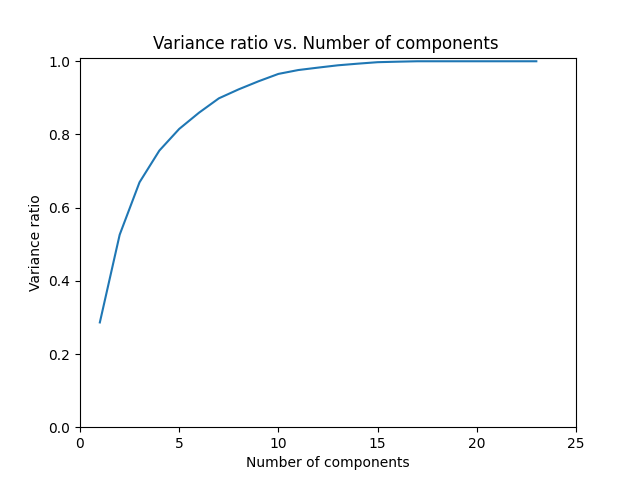
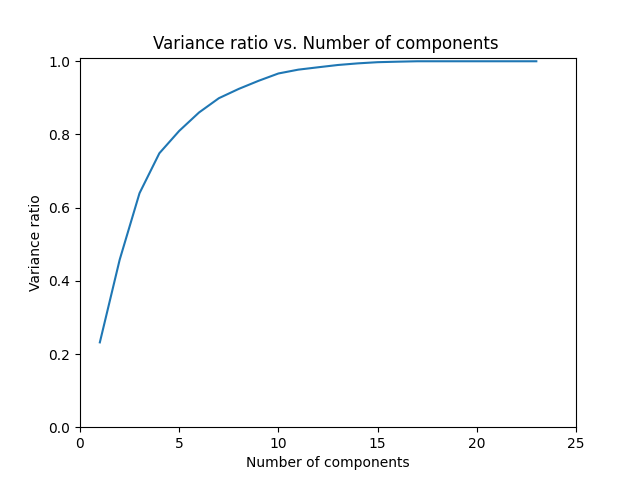
part_2 done

diff --git a/Assgn2/main.py b/Assgn2/main.py
@@ -235,9 +235,8 @@ def sequential_backward_selection(attribute_set,classifier,test_set,target_value
 
 
 
-def apply_pca(attribute_set,example_list_orig):
-	example_list = example_list_orig
-	example_list = example_list.drop(example_list.columns[-1],axis=1)
+def apply_pca(example_list_orig):
+	example_list = example_list_orig.drop(example_list_orig.columns[-1],axis=1)	
 
 	df = pd.DataFrame(example_list, columns = example_list.columns)
 	pca = PCA(n_components=len(df.columns))
@@ -267,54 +266,48 @@ def apply_pca(attribute_set,example_list_orig):
 		else :
 			break
 	# print(comp_num)
-	print("yoyoyooyoyoyoyoyoyoyoyoyoyo	")
 	pca_new = PCA(n_components = comp_num)
 	pca_new.fit(scaled_data)
 	x_pca = pca_new.transform(scaled_data)
-	# x_pca[:, :-1] = example_list[:,:-1]
-	# print(example_list.iloc[:, -1:])
+
 	example_list = example_list_orig.iloc[:, -1:]
-	# print(type(x_pca))
-	# print(type(example_list))
+	
 	example_list = example_list.to_numpy()
-	# print(type(example_list))
+
 	x_pca = np.column_stack((x_pca, example_list))
-	# np.append(x_pca, example_list, axis =1)
-	# print(x_pca.shape)
-	# print(example_list.shape)
-	# x_pca[example_list]
-	# print(x_pca[:, -1:])
-	# lim = round((0.8)*len(x_pca.index))
-	# training_set = x_pca.iloc[0:lim]
-	# test_set = x_pca.iloc[lim:]
+	
+	x_pca = pd.DataFrame(data = x_pca) 
+
+	print(x_pca)
+	attribute_names = []
+	attribute_values = {}
+	target =  x_pca.columns[len(x_pca.columns)-1]
+	target_values = []
+	non_continuous = []
+
+	attribute_names = x_pca.columns
+	for x in x_pca.columns :
+		mp = {}
+		mp["continuous"] = 1
+		mp["orig_values"] = []
+		mp["encoded_values"] = []
+		attribute_values[x] = mp
+
+	attributes = attribute_set(attribute_names,attribute_values,target,target_values,non_continuous)
+	
+
 
 	msk = np.random.rand(len(x_pca)) <= 0.8
 	training_set = x_pca[msk]
 	test_set = x_pca[~msk]
 
-	# # print(training_set)
-	# # print(test_set)
-	
-	# #normalization using sklearn library
-	scaler1 = preprocessing.MinMaxScaler()
-	training_set = pd.DataFrame(scaler1.fit_transform(training_set))
-	test_set = pd.DataFrame(scaler1.fit_transform(test_set))
-
-	mp = {}
-	for x in range(comp_num) :
-		mp[x] = attribute_set.attribute_names[x]
-	mp[comp_num] = attribute_set.target
-	test_set = test_set.rename(columns = mp)
-	training_set = training_set.rename(columns = mp)
-
-	print(training_set)
-	print(test_set)
+	training_set = pd.DataFrame(data = training_set) 
+	test_set = pd.DataFrame(data = test_set) 
 	
 	# # # we do five fold cross validation
 	acc = 0
-	acc,classifier = naive_bayes_classification(attribute_set,training_set, test_set, attribute_set.target)
+	acc,classifier = naive_bayes_classification(attributes,training_set, test_set, attributes.target)
 	print("Test accuracy after step 2 = ",acc)
-	print(x_pca)
 
 
 
@@ -349,7 +342,7 @@ def main() :
 		encode(attribute_values[x])
 
 	attributes = attribute_set(attribute_names,attribute_values,target,target_values,non_continuous)
-	print(attributes.attribute_values)
+	# print(attributes.attribute_values)
 	transform_example_list(attributes,example_list)
 
 	#dividng the example list into training set (80%) and test set (20%) 
@@ -363,10 +356,10 @@ def main() :
 	handle_missing_values(attributes,test_set)
 
 
-	#apply_pca(attributes,example_list)
+	apply_pca(example_list)
 
 
-	
+	"""
 	#normalization using sklearn library
 	scaler = preprocessing.MinMaxScaler()
 	training_set = pd.DataFrame(scaler.fit_transform(training_set))
@@ -401,7 +394,7 @@ def main() :
 	acc,classifier = naive_bayes_classification(attributes,new_train,new_test,attributes.target)
 
 	print("Final test accuracy = ",acc)
-
+	"""
 
 
 
